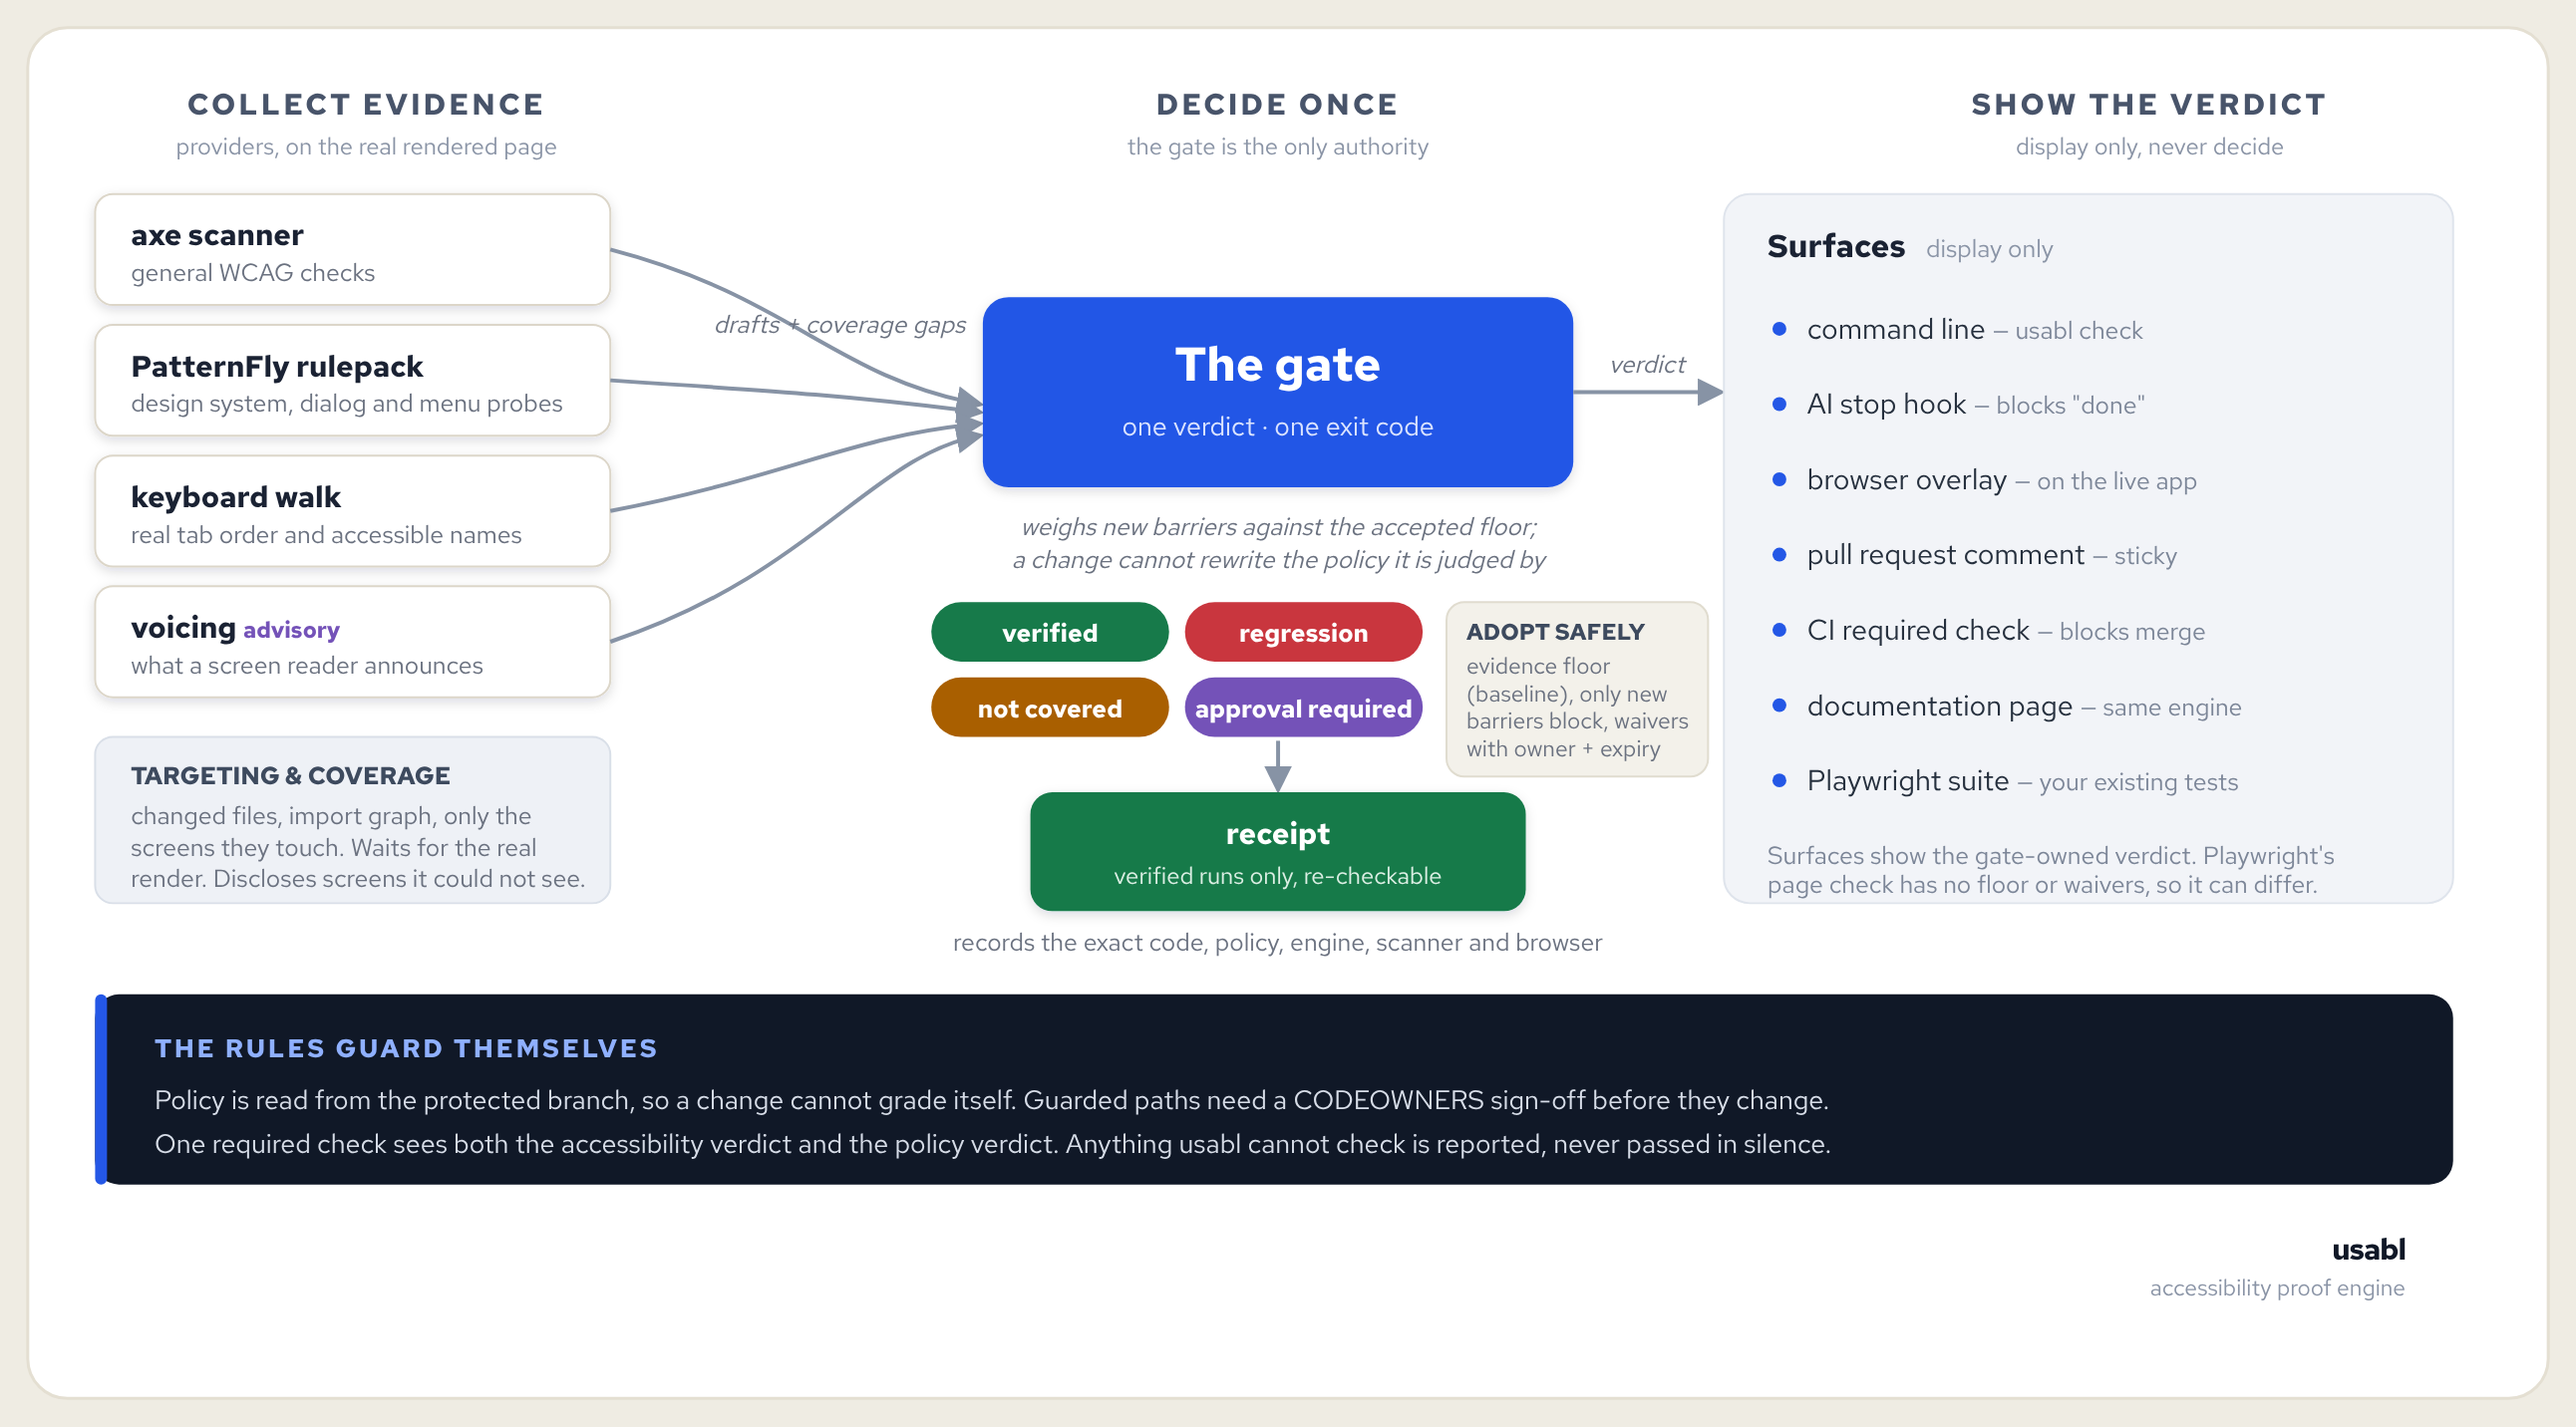
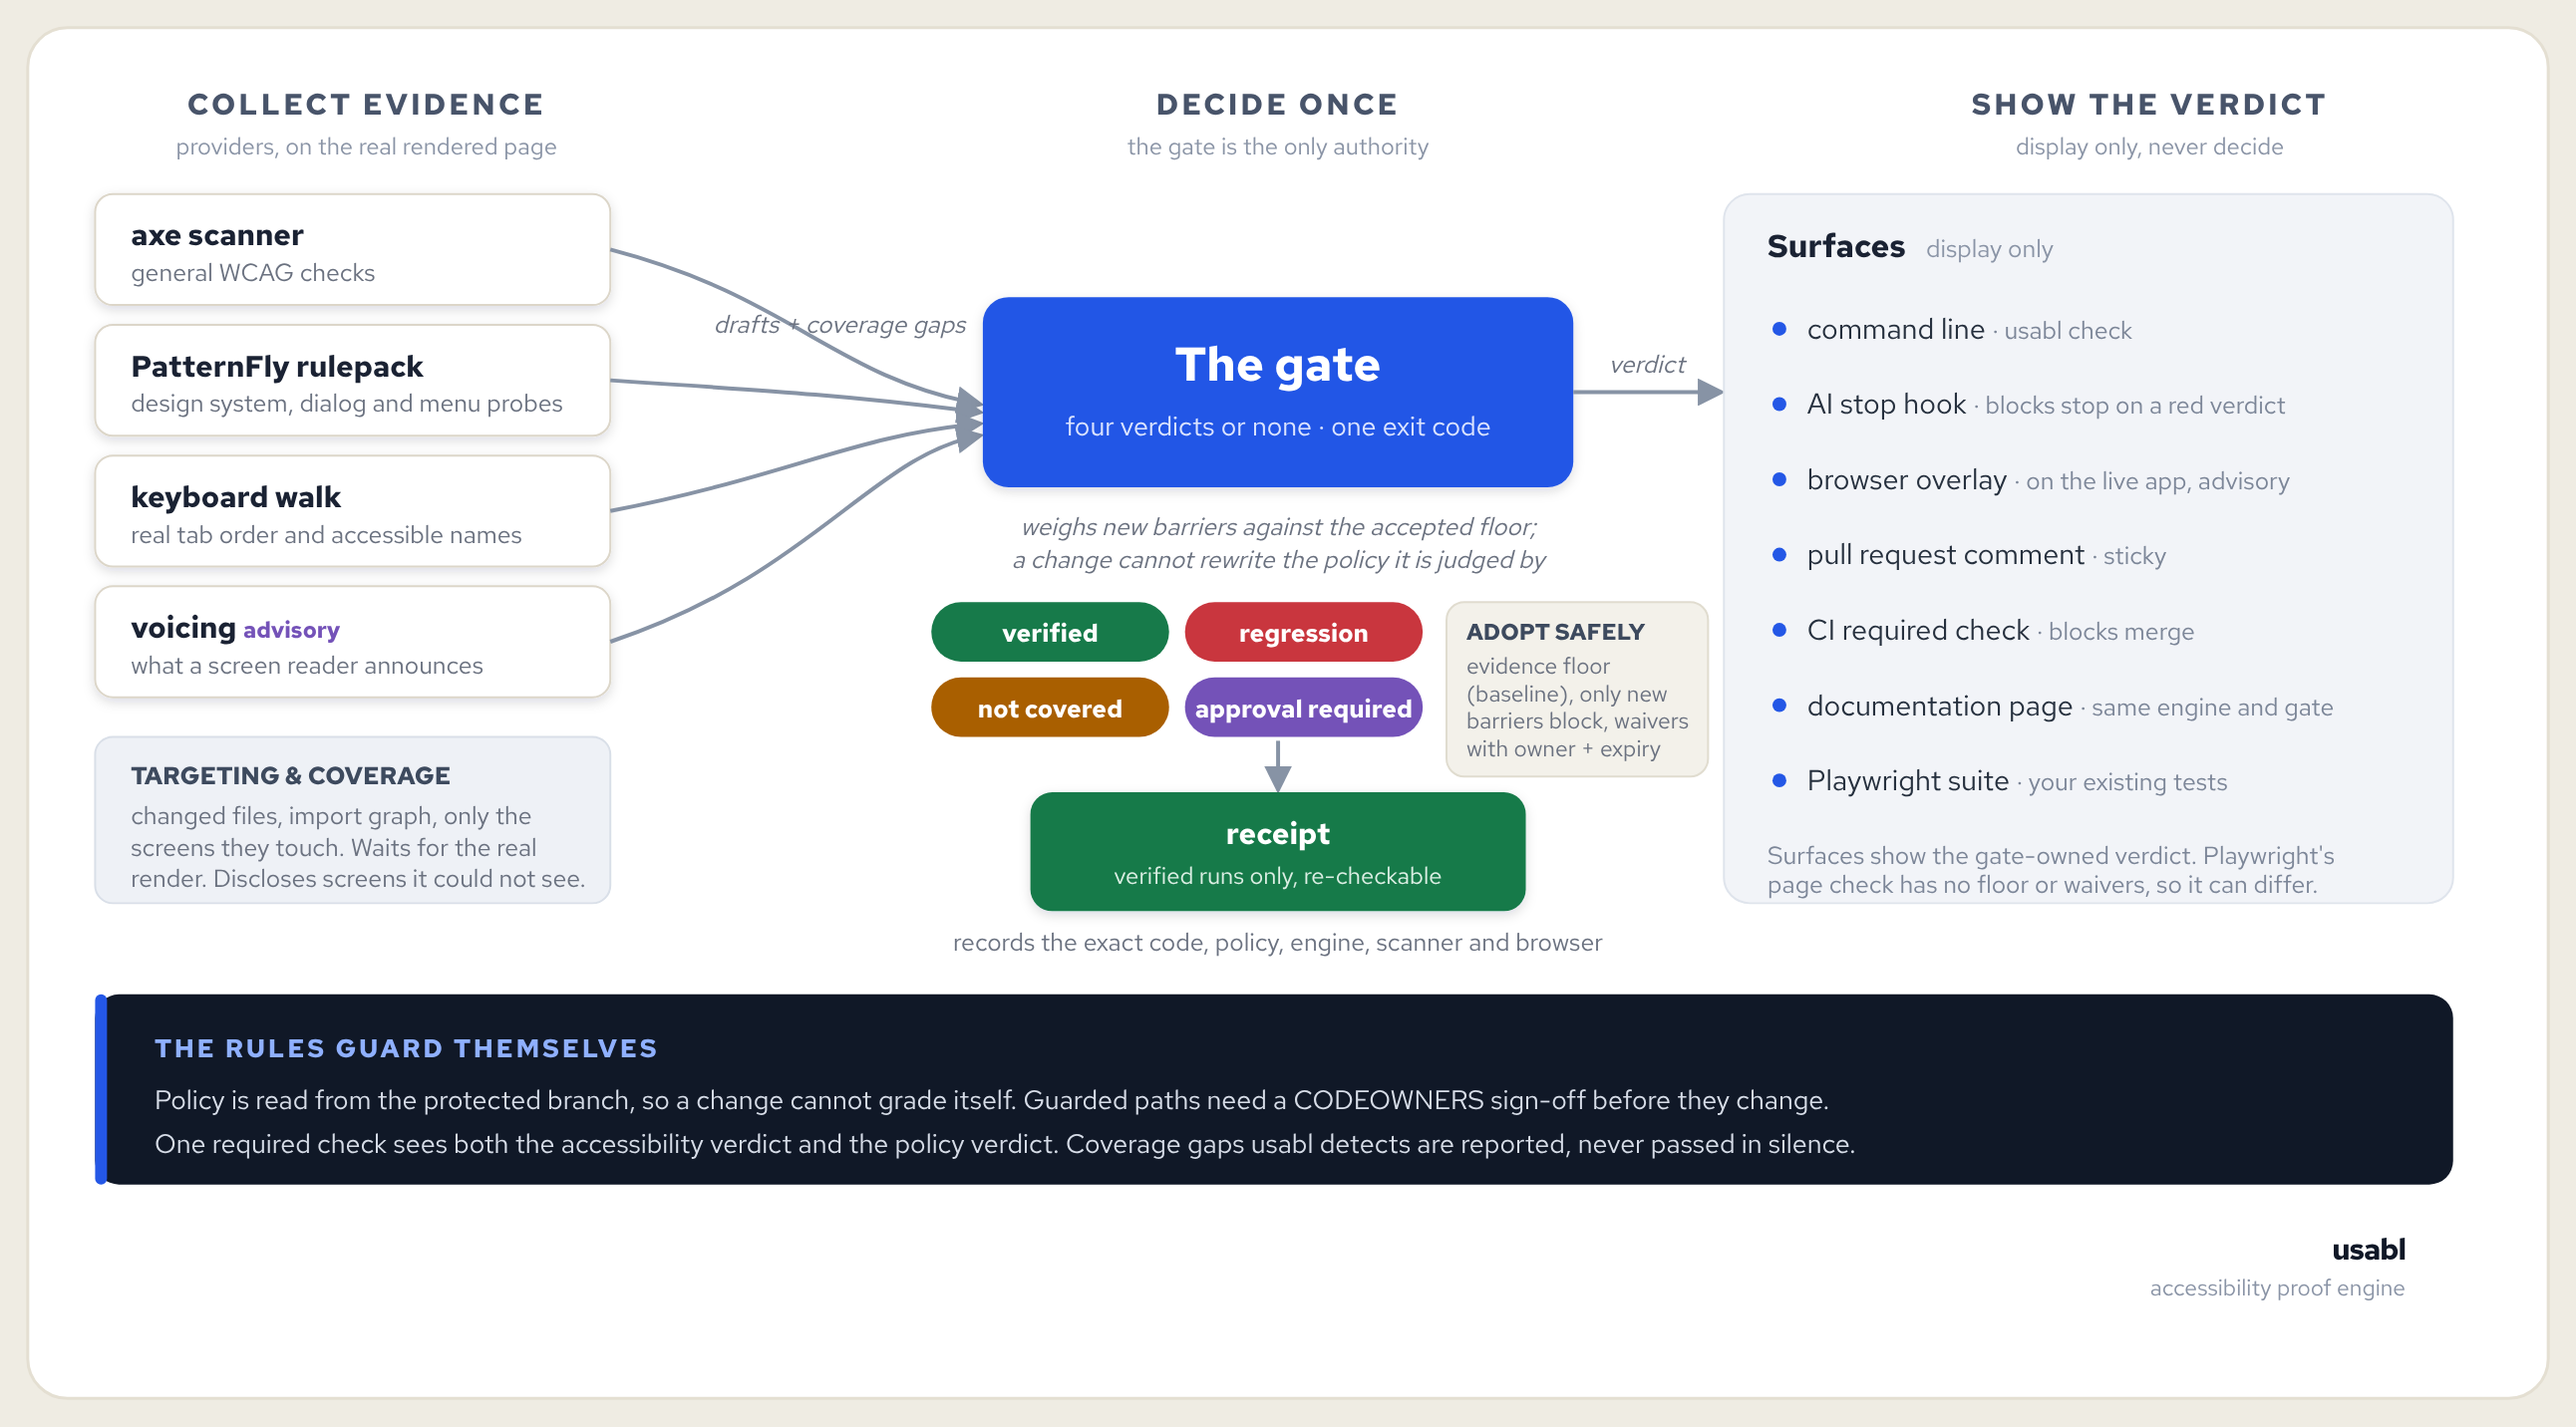
docs: state four verdicts or none and detected gaps on the product map

diff --git a/docs/demo/usabl-product-map.html b/docs/demo/usabl-product-map.html
@@ -79,7 +79,7 @@
     <rect x="496" y="150" width="298" height="96" rx="13" fill="#2457e6"/>
   </g>
   <text x="645" y="192" text-anchor="middle" font-weight="800" font-size="24" fill="#fff">The gate</text>
-  <text x="645" y="220" text-anchor="middle" font-size="13.5" fill="#dbe4ff">one verdict &#183; one exit code</text>
+  <text x="645" y="220" text-anchor="middle" font-size="13.5" fill="#dbe4ff">four verdicts or none &#183; one exit code</text>
 
   <!-- gate reasoning caption -->
   <text class="lab" x="645" y="270" text-anchor="middle">weighs new barriers against the accepted floor;</text>
@@ -123,13 +123,13 @@
   <text x="892" y="130" font-weight="800" font-size="16" fill="#1a2233">Surfaces</text>
   <text x="972" y="130" font-size="12.5" fill="#8a94a6">display only</text>
   <g>
-    <circle cx="898" cy="166" r="3.5" fill="#2457e6"/><text class="surf" x="912" y="171">command line <tspan class="surfnote">— usabl check</tspan></text>
-    <circle cx="898" cy="204" r="3.5" fill="#2457e6"/><text class="surf" x="912" y="209">AI stop hook <tspan class="surfnote">— blocks "done"</tspan></text>
-    <circle cx="898" cy="242" r="3.5" fill="#2457e6"/><text class="surf" x="912" y="247">browser overlay <tspan class="surfnote">— on the live app</tspan></text>
-    <circle cx="898" cy="280" r="3.5" fill="#2457e6"/><text class="surf" x="912" y="285">pull request comment <tspan class="surfnote">— sticky</tspan></text>
-    <circle cx="898" cy="318" r="3.5" fill="#2457e6"/><text class="surf" x="912" y="323">CI required check <tspan class="surfnote">— blocks merge</tspan></text>
-    <circle cx="898" cy="356" r="3.5" fill="#2457e6"/><text class="surf" x="912" y="361">documentation page <tspan class="surfnote">— same engine</tspan></text>
-    <circle cx="898" cy="394" r="3.5" fill="#2457e6"/><text class="surf" x="912" y="399">Playwright suite <tspan class="surfnote">— your existing tests</tspan></text>
+    <circle cx="898" cy="166" r="3.5" fill="#2457e6"/><text class="surf" x="912" y="171">command line <tspan class="surfnote">&#183; usabl check</tspan></text>
+    <circle cx="898" cy="204" r="3.5" fill="#2457e6"/><text class="surf" x="912" y="209">AI stop hook <tspan class="surfnote">&#183; blocks stop on a red verdict</tspan></text>
+    <circle cx="898" cy="242" r="3.5" fill="#2457e6"/><text class="surf" x="912" y="247">browser overlay <tspan class="surfnote">&#183; on the live app, advisory</tspan></text>
+    <circle cx="898" cy="280" r="3.5" fill="#2457e6"/><text class="surf" x="912" y="285">pull request comment <tspan class="surfnote">&#183; sticky</tspan></text>
+    <circle cx="898" cy="318" r="3.5" fill="#2457e6"/><text class="surf" x="912" y="323">CI required check <tspan class="surfnote">&#183; blocks merge</tspan></text>
+    <circle cx="898" cy="356" r="3.5" fill="#2457e6"/><text class="surf" x="912" y="361">documentation page <tspan class="surfnote">&#183; same engine and gate</tspan></text>
+    <circle cx="898" cy="394" r="3.5" fill="#2457e6"/><text class="surf" x="912" y="399">Playwright suite <tspan class="surfnote">&#183; your existing tests</tspan></text>
   </g>
   <text x="892" y="436" font-size="12.5" fill="#7c8698">Surfaces show the gate-owned verdict. Playwright's</text>
   <text x="892" y="451" font-size="12.5" fill="#7c8698">page check has no floor or waivers, so it can differ.</text>
@@ -139,7 +139,7 @@
   <rect x="48" y="502" width="6" height="96" rx="3" fill="#2457e6"/>
   <text x="78" y="534" font-weight="800" font-size="13" letter-spacing="1.4" fill="#8fb0ff">THE RULES GUARD THEMSELVES</text>
   <text x="78" y="560" font-size="13.5" fill="#d7dde8">Policy is read from the protected branch, so a change cannot grade itself. Guarded paths need a CODEOWNERS sign-off before they change.</text>
-  <text x="78" y="582" font-size="13.5" fill="#d7dde8">One required check sees both the accessibility verdict and the policy verdict. Anything usabl cannot check is reported, never passed in silence.</text>
+  <text x="78" y="582" font-size="13.5" fill="#d7dde8">One required check sees both the accessibility verdict and the policy verdict. Coverage gaps usabl detects are reported, never passed in silence.</text>
 
   <!-- wordmark -->
   <text x="1214" y="636" text-anchor="end" font-weight="800" font-size="15" fill="#101827" letter-spacing="-0.5">usabl</text>
